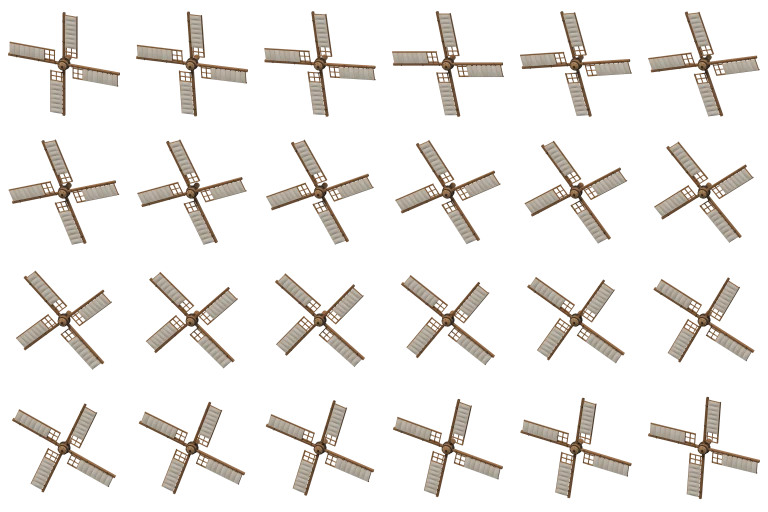
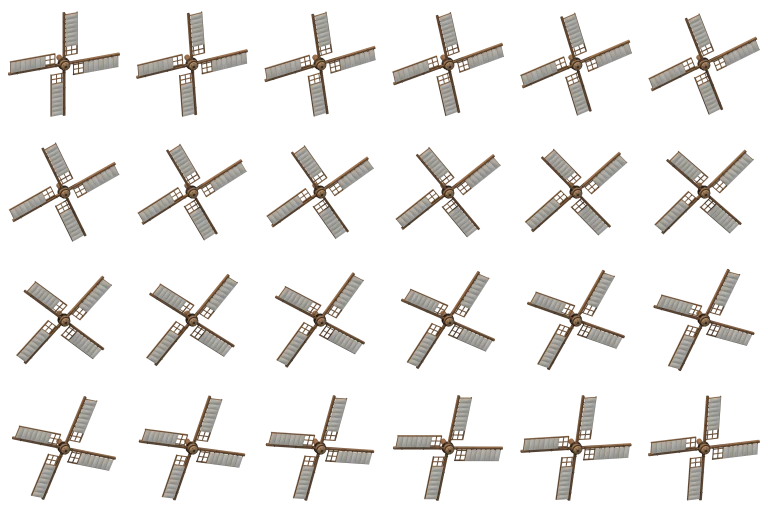
Rook iets verder naar rechts; molenwieken de andere kant op gedraaid en boven de deur

diff --git a/public/js/config.js b/public/js/config.js
@@ -259,7 +259,7 @@ const CFG={
      elke every ms een nieuw pufje, frameMs per beeld, een volledig beeld w wereldpixels breed bij een getekend gebouw (geschilderde
      gebouwen: × breedte/refW). Zonder spriteblad: puffs cirkels per period ms. */
   smoke:{frameMs:90,every:480,w:28,alpha:0.95,puffs:3,period:2800,rise:16,circleAlpha:0.6,refW:40,
-    fx:0.29},   // voet van de pluim in het beeld (gemeten, 0..1 van de breedte); het anker van het spriteblad (0,35) zette de rook links van de schoorsteen
+    fx:0.22},   // anker in het beeld (0..1 van de breedte): de voet van de pluim (0,27–0,30) komt zo net rechts van het rookpunt, recht op de schoorsteen; met het anker van het spriteblad (0,35) begon de rook links ervan
   /* molenwieken (loop.js): arm = lengte van een wiek in wereldpixels bij schaal 1 (× sc of sail), turn = draaisnelheid in
      radialen per ms (0.0011 = een omwenteling in ruim 5,7 s). Geschilderde wieken: assets/effects/molenwieken_*.webp. */
   mill:{arm:15,turn:0.0011},

diff --git a/Wijzigingen.md b/Wijzigingen.md
@@ -2,6 +2,10 @@
 
 Korte DCS-log per kwartier; de volledige geschiedenis per dag staat in [CHANGELOG.md](CHANGELOG.md).
 
+## 2026-11-03 06:30 CET
+- Rook nog iets naar rechts (`CFG.smoke.fx` 0,22 in [public/js/config.js](public/js/config.js)): ook de eerste beelden van de pluim beginnen nu op de schoorsteen.
+- Molenwieken: opnieuw gerenderd met de draaiing de andere kant op (`yaw` 20 in plaats van −20 in [tools/sprites.json](tools/sprites.json), [tools/render_wieken.py](tools/render_wieken.py)), en de naaf op dezelfde hoogte naar links, recht boven de deur (`hub` 0,313 in [public/assets/manifest.json](public/assets/manifest.json)). Gecontroleerd op een close-up.
+
 ## 2026-11-03 06:15 CET
 - Rook begint nu recht op de schoorsteen: het ankerpunt van het rook-spriteblad lag op 35% van de beeldbreedte, de voet van de pluim op ongeveer 29% (gemeten per beeld), waardoor elke pluim links van de schoorsteen begon. Nieuw `CFG.smoke.fx` in [public/js/config.js](public/js/config.js), gebruikt in [public/js/loop.js](public/js/loop.js). Gecontroleerd op close-ups van bakkerij en ijzersmelterij.
 - Paneel Productie: per regel een knopje met een oog dat de camera telkens naar het volgende gebouw van die soort brengt en meteen zijn tooltip toont, met een teller (bv. 2/3), zodat je snel het gebouw met een tekort vindt; het oog staat los (zonder knoprand) en verticaal gecentreerd rechts in de regel (`prodFocus` in [public/js/production.js](public/js/production.js), stijl in [public/css/kolonie.css](public/css/kolonie.css), tekst `prod.focus` in [public/lang/nl.js](public/lang/nl.js)). Getest: rondgaan langs twee woonhuizen, de tooltip blijft staan.
